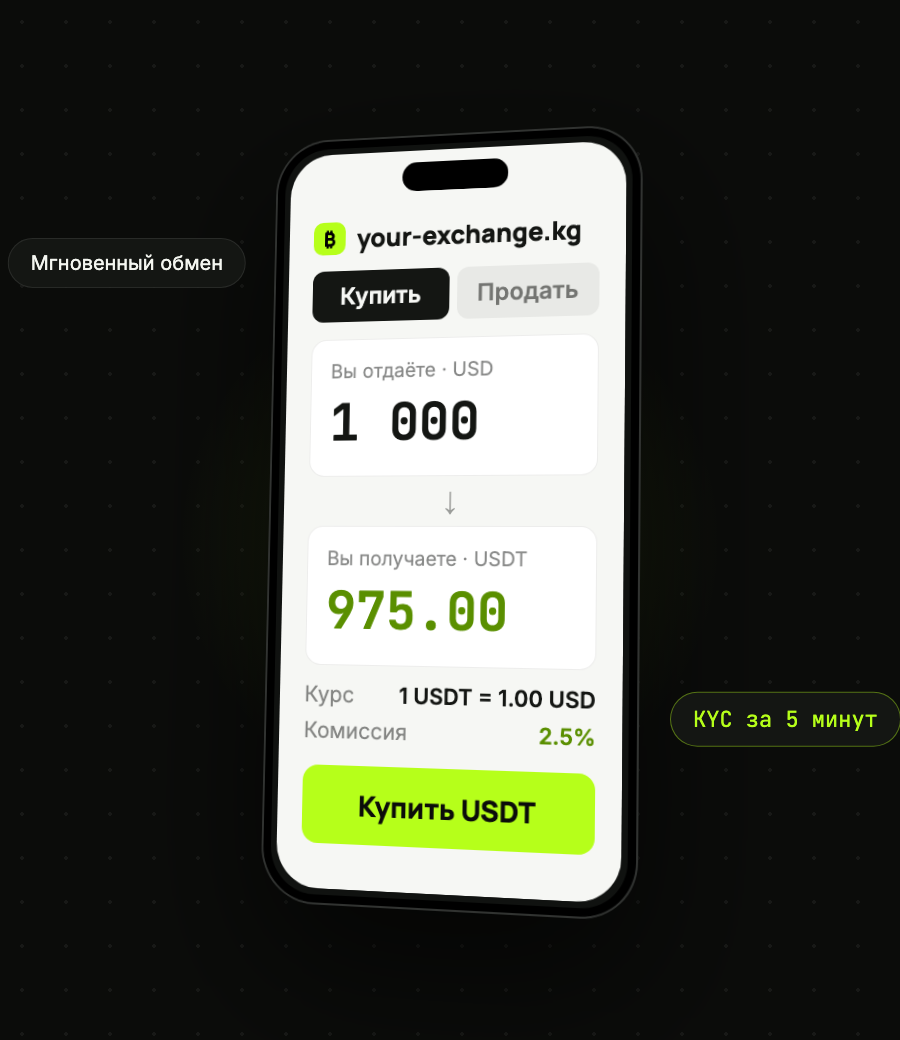
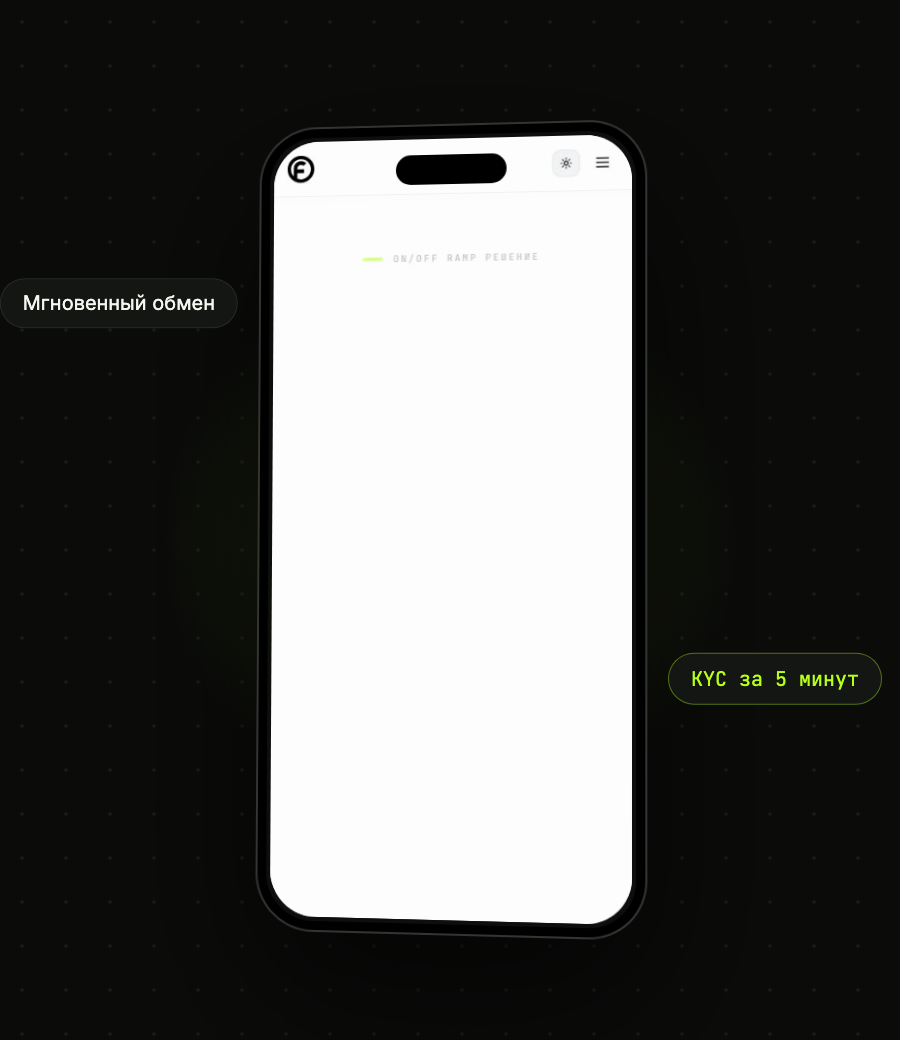
feat(landing): интерфейс-обзоры на РЕАЛЬНОМ UI (Playwright-запись kiril в device-frame)
Заменил рисованные моки на живую запись продукта:
- exchange: реальный мобильный виджет kiril (курс BTC, вкладки) внутри
  премиум 3D-телефона с покачиванием — Remotion OffthreadVideo
- orders: реальная lime-админка (канбан, стат-плитки, заявки) в browser-frame
  с деликатным ken-burns
Запись: asystem-promo/record/*.mjs → OffthreadVideo-композит. plain-режим
VideoDemo (клип само-обрамлён, без двойной рамки).

diff --git a/src/components/Sections.tsx b/src/components/Sections.tsx
@@ -21,17 +21,17 @@ const SectionHead = ({ eyebrow, title, lead }: { eyebrow?: string; title: string
 );
 
 // Браузер-фрейм с автоплей-видео демо (poster в /shots, видео в /demos)
-const VideoDemo = ({ demo, url, bare }: { demo: string; url?: string; bare?: boolean }) => {
+const VideoDemo = ({ demo, url, plain }: { demo: string; url?: string; plain?: boolean }) => {
   const video = (
     <video className="block w-full" poster={`/shots/${demo}.png`} autoPlay muted loop playsInline preload="metadata">
       <source src={`/demos/${demo}.webm`} type="video/webm" />
       <source src={`/demos/${demo}.mp4`} type="video/mp4" />
     </video>
   );
-  // bare — клип сам себе сцена (3D-телефон на тёмной карте), без браузер-рамки
-  if (bare) {
+  // plain — клип уже содержит своё обрамление (3D-телефон / браузер), без внешней рамки
+  if (plain) {
     return (
-      <div className="mx-auto max-w-[440px] overflow-hidden rounded-2xl border border-border shadow-[0_30px_80px_-20px_hsl(240_10%_6%/0.35)]">
+      <div className="overflow-hidden rounded-2xl border border-border shadow-[0_30px_80px_-24px_hsl(240_10%_6%/0.4)]">
         {video}
       </div>
     );
@@ -40,8 +40,8 @@ const VideoDemo = ({ demo, url, bare }: { demo: string; url?: string; bare?: boo
 };
 
 // Двухколоночный демо-блок «текст + живое видео», размещается у своей темы
-const Showcase = ({ eyebrow, title, points, demo, url, reverse, bare }: {
-  eyebrow: string; title: string; points: string[]; demo: string; url?: string; reverse?: boolean; bare?: boolean;
+const Showcase = ({ eyebrow, title, points, demo, url, reverse, plain }: {
+  eyebrow: string; title: string; points: string[]; demo: string; url?: string; reverse?: boolean; plain?: boolean;
 }) => (
   <div className="container grid items-center gap-10 lg:grid-cols-2">
     <ScrollReveal className={reverse ? "lg:order-2" : ""}>
@@ -57,7 +57,7 @@ const Showcase = ({ eyebrow, title, points, demo, url, reverse, bare }: {
       </ul>
     </ScrollReveal>
     <ScrollReveal variant={reverse ? "right" : "left"} delay={120} className={reverse ? "lg:order-1" : ""}>
-      <VideoDemo demo={demo} url={url} bare={bare} />
+      <VideoDemo demo={demo} url={url} plain={plain} />
     </ScrollReveal>
   </div>
 );
@@ -224,7 +224,7 @@ export const ClientShowcase = () => (
       title="Обмен крипты — в пару кликов"
       url="exchange.your-exchange.kg"
       demo="exchange"
-      bare
+      plain
       points={[
         "Покупка и продажа крипты на фиат — без лишних шагов",
         "Курс в реальном времени и прозрачная комиссия",
@@ -242,6 +242,7 @@ export const OperatorShowcase = () => (
       title="Заявки, выплаты и аудит — в одной админке"
       url="admin.your-exchange.kg"
       demo="orders"
+      plain
       reverse
       points={[
         "Канбан заявок: статусы, подтверждение выплат, фильтры",